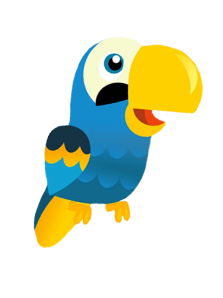
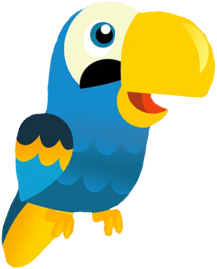
finish form

diff --git a/src/components/JoinTrial/JoinTrial.tsx b/src/components/JoinTrial/JoinTrial.tsx
@@ -32,39 +32,51 @@ const JoinTrial = () => {
                 </div>
                 <div className={styles.join__info}>
 
+                    <div className={styles.join__info__wrapper}>
+                 {/*
+                    */}
 
-                    <div className={styles.join__content}>
-                        <div className={`${styles.join__decor}`}>
-                            <div className={`${styles.join__circle} ${styles.join__circleB}`} />
-                            <div className={`${styles.join__circle} ${styles.join__circleS} ${styles.join__circleEnd}`} />
+                        <div className={styles.join__content}>
+                            <div className={`${styles.join__decor}`}>
+                                <div className={`${styles.join__circle} ${styles.join__circleB}`} />
+                                <div className={`${styles.join__circle} ${styles.join__circleS} ${styles.join__circleEnd}`} />
+                            </div>
+
+
+                            <ul className={styles.join__list}>
+                                {list.map((item, index) => (
+                                    <li key={index} className={styles.join__item} >
+                                        <img src={Cross}
+                                            className={styles.join__icon}
+                                            alt="Icon"
+                                        />
+                                        <p className={styles.join__text}>
+                                            {item}
+                                        </p>
+                                    </li>
+                                ))}
+                            </ul>
+
+
+
+                            <div className={`${styles.join__decor} ${styles.join__decorBottom} `}>
+                                <div className={`${styles.join__circle} ${styles.join__circleS} ${styles.join__circleEnd}  `} />
+                                <div className={`${styles.join__circle} ${styles.join__circleB}`} />
+                            </div>
+
+
                         </div>
-
-
-                        <ul className={styles.join__list}>
-                            {list.map((item, index) => (
-                                <li key={index} className={styles.join__item} >
-                                    <img src={Cross}
-                                        className={styles.join__icon}
-                                        alt="Icon"
-                                    />
-                                    <p className={styles.join__text}>
-                                        {item}
-                                    </p>
-                                </li>
-                            ))}
-                        </ul>
-
-
-
-                        <div className={`${styles.join__decor} ${styles.join__decorBottom} `}>
-                            <div className={`${styles.join__circle} ${styles.join__circleS} ${styles.join__circleEnd}  `} />
-                            <div className={`${styles.join__circle} ${styles.join__circleB}`} />
-                        </div>
-
-
-
+                    <img className={styles.join__image}
+                        src={Bird}
+                        alt="Bird"
+                    />
                     </div>
                 </div>
+                    {/*
+                */}
+
+
+
             </div>
         </div>
     );

diff --git a/src/components/JoinTrial/JoinTrial.module.scss b/src/components/JoinTrial/JoinTrial.module.scss
@@ -28,12 +28,16 @@
         background-color: $blue;
         border-top-right-radius: 31px;
         border-bottom-right-radius: 31px;
-        padding: 29px 27px;
         height: 100%;
-        overflow: hidden;
         position: relative;
-    }
+        overflow: hidden;
+        &__wrapper {
+            height: 100%;
+            padding: 29px 27px;
 
+        }
+    }
+    
     &__content {
         display: flex;
         flex-direction: column;
@@ -101,7 +105,12 @@
         color: $black;
         font-family: "Inter", sans-serif;
     }
-
+&__image {
+    position: absolute;
+    left: 0;
+    bottom: 0;
+    transform: translateY(80px);
+}
     /*
 
     &__info {
